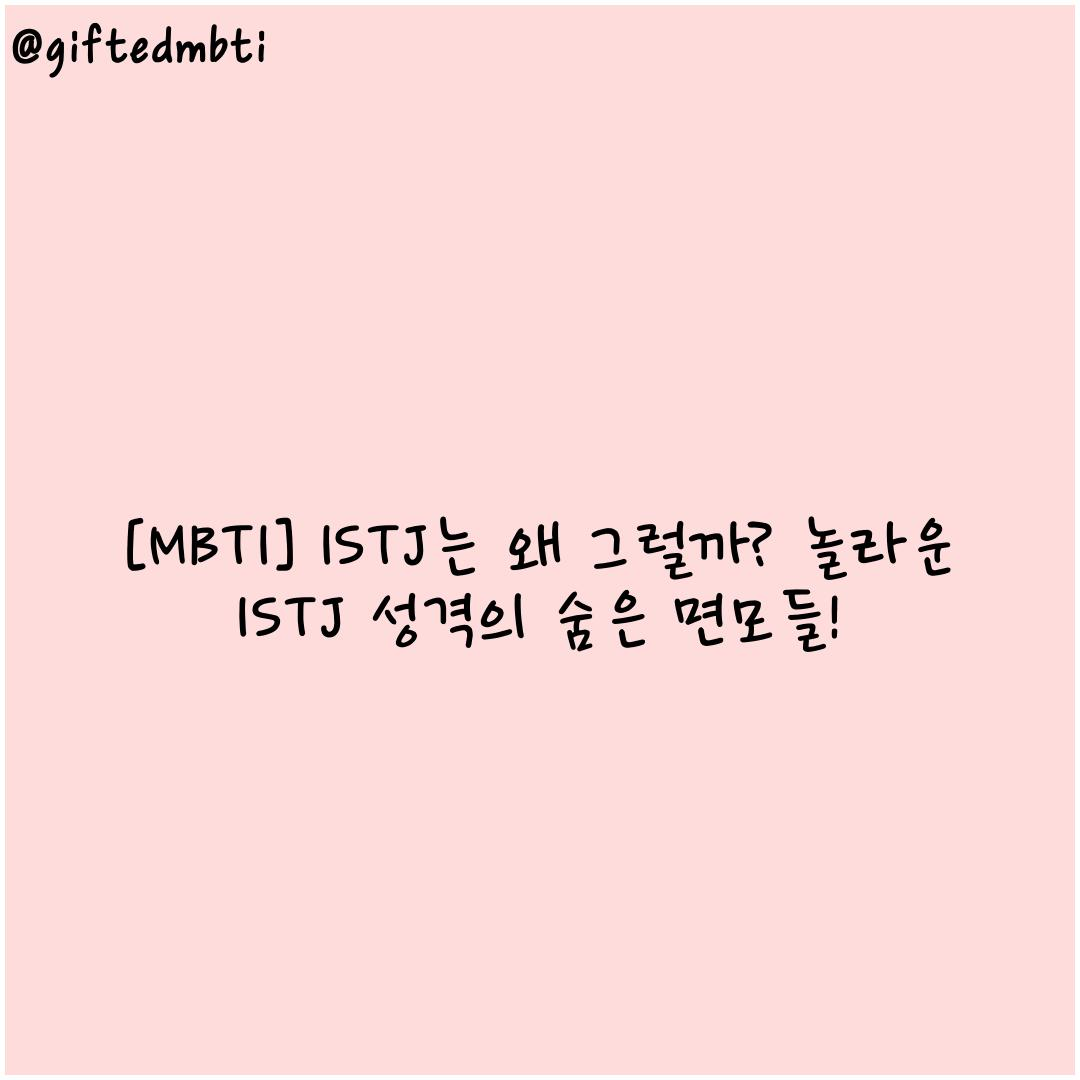
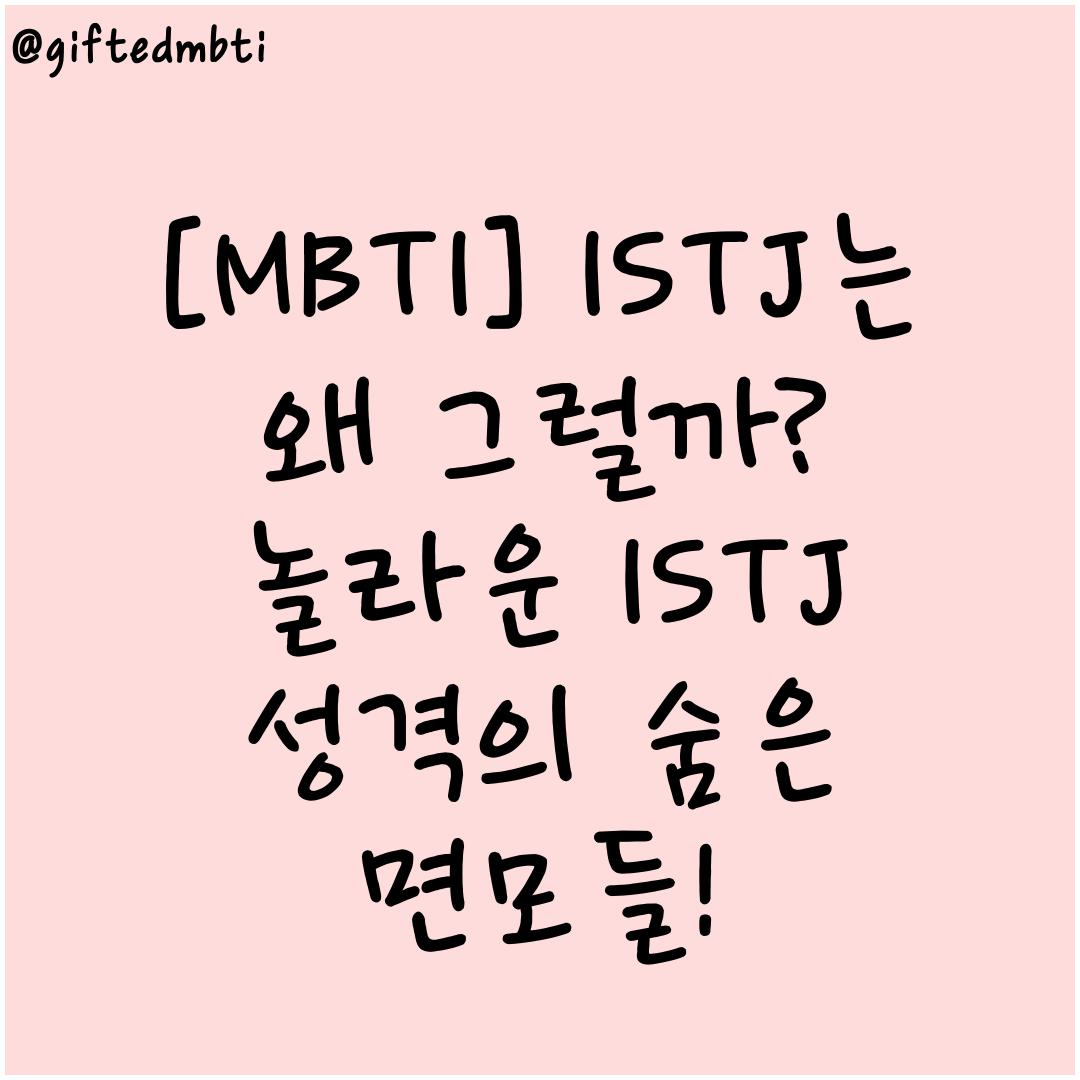
제목 가시성

diff --git a/createTitleCardByInfo.py b/createTitleCardByInfo.py
@@ -11,7 +11,7 @@ def calculate_font_size(font_path, text, max_size, min_size):
     font_size = max_size
     font = ImageFont.truetype(font_path, font_size)
     text_width, _ = font.getsize(text)
-    while font_size > min_size and text_width > 0.8 * IMAGE_SIZE[0]:
+    while font_size > min_size and text_width < 0.8 * IMAGE_SIZE[0]:
         font_size -= 1
         font = ImageFont.truetype(font_path, font_size)
         text_width, _ = font.getsize(text)
@@ -26,7 +26,7 @@ def createTitleCardByInfo(BlogMetaInfo):
     background_color = BACKGROUND_COLOR
     font_path = FONT_PATH
     min_font_size = 70
-    max_font_size = 120
+    max_font_size = 150
     text_color = TEXT_COLOR
     border_color = BORDER_COLOR
     border_width = BORDER_WIDTH

diff --git a/config.py b/config.py
@@ -20,4 +20,4 @@ BRANDING_CIRCLE_RADIUS = 200
 BRANDING_TEXT = "매일 MBTI 연애 팁을 올립니다.\n팔로우 하시고 매일 연애 팁 받아보세요."
 BRANDING_TEXT_FONT_SIZE = 50
 BRANDING_BLOG_NAME_FONT_SIZE = 70
-HASHTAG = "      . . .        #ENFP#ISTJ#ISFJ#INFJ#INTJ#ISTP#ISFP#INFP#INTP#ESTP#ESFP#ENTP#ESTJ#ESFJ#ENFJ#ENTJ#인스타툰"
+HASHTAG = "      . . .        #MBTI#ENFP#ISTJ#ISFJ#INFJ#INTJ#ISTP#ISFP#INFP#INTP#ESTP#ESFP#ENTP#ESTJ#ESFJ#ENFJ#ENTJ#인스타툰"

diff --git a/main.py b/main.py
@@ -50,6 +50,6 @@ def confirm_and_upload(folder_name):
         logging.info("User declined upload. Exiting...")
 
 if __name__ == "__main__":
-    test_url = "https://giftedmbti.tistory.com/186"
+    test_url = "https://giftedmbti.tistory.com/169"
     folder_name = generate_images(test_url)
-    confirm_and_upload(folder_name)
+    #confirm_and_upload(folder_name)
